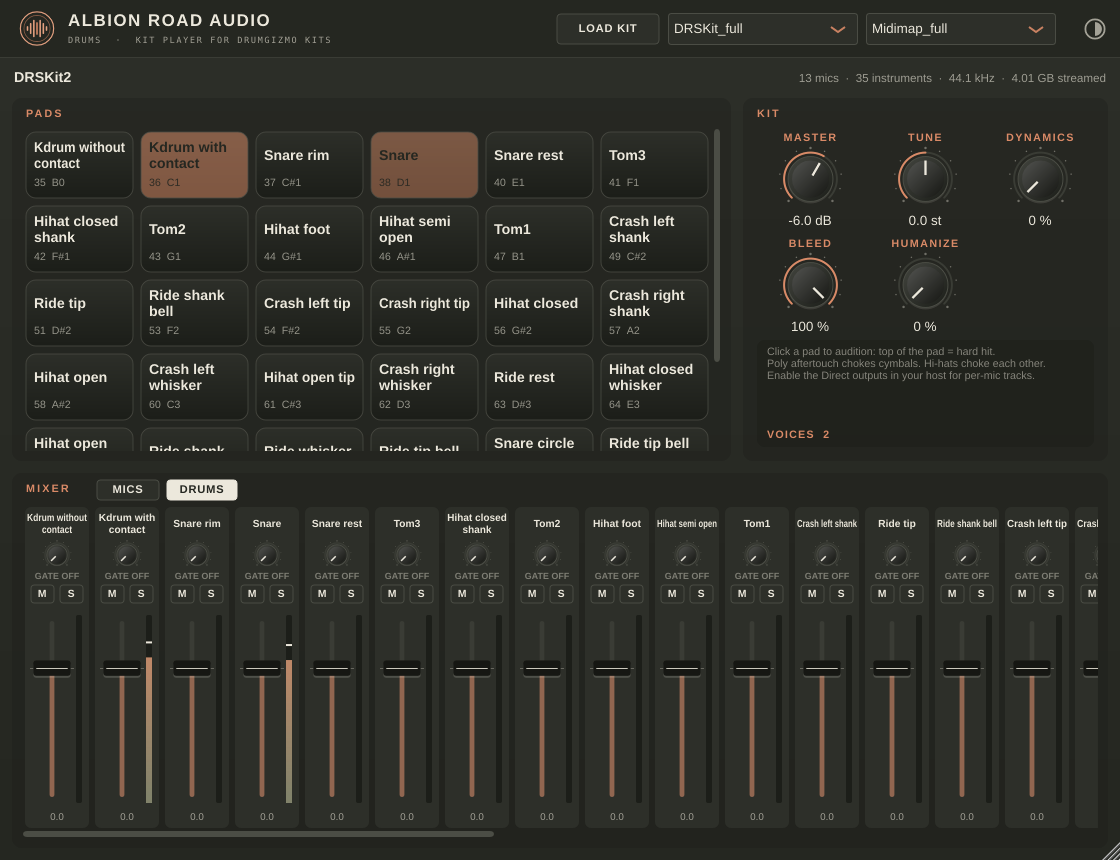
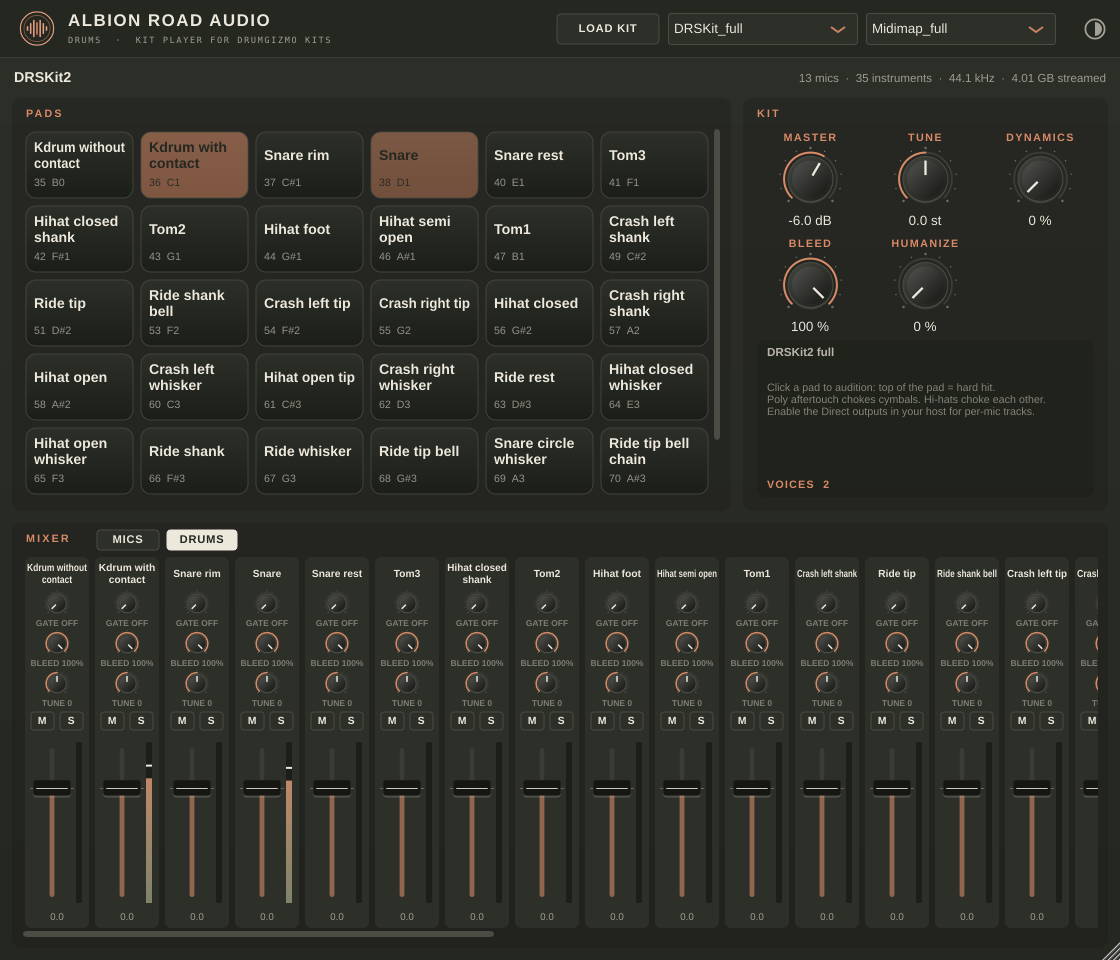
Drums 0.2.0: per-drum Bleed and Tune in the DRUMS mixer
Each drum strip now has Gate, Bleed and Tune knobs.
- Bleed (0-100 %) scales how much of that drum the other mics pick up,
  on top of the kit Bleed knob.
- Tune (+/-12 st) re-pitches just that drum, on top of the kit Tune knob.
  Pitch is now computed per voice.
- Default window is 1120x960 so the faders keep their length.
- tools/EngineTest.cpp checks both controls against a real kit.

diff --git a/juce/drums/src/KitViews.cpp b/juce/drums/src/KitViews.cpp
@@ -127,28 +127,39 @@ MixerStrip::MixerStrip (juce::ValueTree channelState, bool showPan, float uiScal
     if (hasPan)
         addAndMakeVisible (pan);
 
-    // per-hit gate (drum strips only): Off .. -3 dB below each hit's own peak
+    // drum strips only: per-hit gate, this drum's bleed and tune
     if (! hasPan)
     {
-        if (! state.hasProperty ("gate"))
-            state.setProperty ("gate", -60.0, nullptr);
-        gate.setSliderStyle (juce::Slider::RotaryHorizontalVerticalDrag);
-        gate.setRotaryParameters (juce::degreesToRadians (225.0f), juce::degreesToRadians (495.0f), true);
-        gate.setTextBoxStyle (juce::Slider::NoTextBox, true, 0, 0);
+        // Gate: Off .. -12 dB below each hit's own peak
         gate.setRange (-60.0, -12.0, 0.5);
         gate.setSkewFactorFromMidPoint (-30.0);
-        gate.setDoubleClickReturnValue (true, -60.0);
-        gate.getValueObject().referTo (state.getPropertyAsValue ("gate", nullptr));
+        setupDrumKnob (gate, "gate", -60.0);
         gate.textFromValueFunction = [] (double v)
         {
             return v <= -59.95 ? juce::String ("Off") : juce::String (v, v > -10.0 ? 1 : 0) + " dB";
         };
-        gate.setPopupDisplayEnabled (true, true, nullptr);
         gate.setTooltip ("Gate: cuts each hit once its level (RMS of the drum's main mics) has fallen this many dB "
                          "below that hit's own loudest point, then closes over 20 ms. Relative to each hit, not dBFS, "
                          "so soft and hard hits are shortened alike. Double-click for Off.");
         gate.onValueChange = [this] { repaint (gateText); };
-        addAndMakeVisible (gate);
+
+        // Bleed: this drum's level in the other drums' mics, x the kit Bleed knob
+        bleed.setRange (0.0, 100.0, 1.0);
+        setupDrumKnob (bleed, "bleed", 100.0);
+        bleed.textFromValueFunction = [] (double v) { return juce::String (juce::roundToInt (v)) + " %"; };
+        bleed.setTooltip ("Bleed: how much of this drum the other mics pick up (e.g. the snare in the overheads "
+                          "and kick mic). Multiplies the kit's BLEED knob. Double-click for 100 %.");
+        bleed.onValueChange = [this] { repaint (bleedText); };
+
+        // Tune: semitones on top of the kit Tune knob
+        tune.setRange (-12.0, 12.0, 0.1);
+        setupDrumKnob (tune, "tune", 0.0);
+        tune.textFromValueFunction = [] (double v)
+        {
+            return std::abs (v) < 0.05 ? juce::String ("0 st") : (v > 0 ? "+" : "") + juce::String (v, 1) + " st";
+        };
+        tune.setTooltip ("Tune: pitch of this drum in semitones, added to the kit's TUNE knob. Double-click for 0.");
+        tune.onValueChange = [this] { repaint (tuneText); };
     }
 
     for (auto* b : { &mute, &solo })
@@ -181,6 +192,26 @@ MixerStrip::MixerStrip (juce::ValueTree channelState, bool showPan, float uiScal
     fader.onValueChange();
 }
 
+void MixerStrip::setupDrumKnob (juce::Slider& s, const juce::Identifier& property, double defaultValue)
+{
+    if (! state.hasProperty (property))
+        state.setProperty (property, defaultValue, nullptr);
+    s.setSliderStyle (juce::Slider::RotaryHorizontalVerticalDrag);
+    s.setRotaryParameters (juce::degreesToRadians (225.0f), juce::degreesToRadians (495.0f), true);
+    s.setTextBoxStyle (juce::Slider::NoTextBox, true, 0, 0);
+    s.setDoubleClickReturnValue (true, defaultValue);
+    s.getValueObject().referTo (state.getPropertyAsValue (property, nullptr));
+    s.setPopupDisplayEnabled (true, true, nullptr);
+    addAndMakeVisible (s);
+}
+
+void MixerStrip::drawKnobText (juce::Graphics& g, juce::Rectangle<int> r, const juce::String& text, bool active)
+{
+    g.setColour (active ? colours::accent : colours::muted.withAlpha (0.7f));
+    g.setFont (font (9.5f * scale, true));
+    g.drawFittedText (text, r, juce::Justification::centred, 1, 0.8f);
+}
+
 void MixerStrip::setMeter (float peak) noexcept
 {
     // fast attack, ~300 ms visual release, short peak hold
@@ -203,12 +234,13 @@ void MixerStrip::paint (juce::Graphics& g)
 
     if (! hasPan)
     {
-        const bool on = gate.getValue() > -59.95;
-        g.setColour (on ? colours::accent : colours::muted.withAlpha (0.7f));
-        g.setFont (font (10.0f * scale, true));
-        g.drawText (on ? "GATE " + gate.getTextFromValue (gate.getValue()).upToFirstOccurrenceOf (" ", false, false)
-                       : juce::String ("GATE OFF"),
-                    gateText, juce::Justification::centred, false);
+        // highlighted when moved away from the default
+        const auto gv = gate.getValue(), bv = bleed.getValue(), tv = tune.getValue();
+        drawKnobText (g, gateText, gv > -59.95 ? "GATE " + gate.getTextFromValue (gv).upToFirstOccurrenceOf (" ", false, false)
+                                               : juce::String ("GATE OFF"), gv > -59.95);
+        drawKnobText (g, bleedText, "BLEED " + juce::String (juce::roundToInt (bv)) + "%", bv < 99.5);
+        drawKnobText (g, tuneText, "TUNE " + tune.getTextFromValue (tv).upToFirstOccurrenceOf (" ", false, false),
+                      std::abs (tv) >= 0.05);
     }
 
     // meter next to the fader: cream -> brass -> red, -48..+6 dB
@@ -240,8 +272,14 @@ void MixerStrip::resized()
         pan.setBounds (r.removeFromTop (juce::roundToInt (36 * scale)).reduced (juce::roundToInt (8 * scale), 0));
     else
     {
-        gate.setBounds (r.removeFromTop (juce::roundToInt (30 * scale)).reduced (juce::roundToInt (10 * scale), 0));
-        gateText = r.removeFromTop (juce::roundToInt (13 * scale));
+        auto knobRow = [&] (juce::Slider& s, juce::Rectangle<int>& text)
+        {
+            s.setBounds (r.removeFromTop (juce::roundToInt (27 * scale)).reduced (juce::roundToInt (12 * scale), 0));
+            text = r.removeFromTop (juce::roundToInt (13 * scale));
+        };
+        knobRow (gate, gateText);
+        knobRow (bleed, bleedText);
+        knobRow (tune, tuneText);
     }
     auto buttons = r.removeFromTop (juce::roundToInt (22 * scale));
     mute.setBounds (buttons.removeFromLeft (buttons.getWidth() / 2).reduced (2, 1));

diff --git a/juce/drums/tools/EngineTest.cpp b/juce/drums/tools/EngineTest.cpp
@@ -1,0 +1,101 @@
+// Dev tool: checks the per-drum Bleed and Tune controls (DRUMS mixer) against a real kit.
+//   AlbionDrumsEngineTest <drumkit.xml>
+// Each case uses a fresh processor so sample selection is identical, plays one
+// snare hit (note 38) and measures the stereo mix.
+#include "../src/PluginProcessor.h"
+#include <juce_gui_basics/juce_gui_basics.h>
+#include <thread>
+
+namespace juce::detail { bool dispatchNextMessageOnSystemQueue (bool returnIfNoPendingMessages); }
+
+static void pumpMessages (int ms)
+{
+    const auto end = juce::Time::getMillisecondCounter() + (juce::uint32) ms;
+    while (juce::Time::getMillisecondCounter() < end)
+    {
+        while (juce::detail::dispatchNextMessageOnSystemQueue (true)) {}
+        std::this_thread::sleep_for (std::chrono::milliseconds (5));
+    }
+}
+
+struct Result { double energy = 0; double decaySeconds = 0; };   // decay = last non-silent output sample
+
+// settings: (note whose drum gets the property, property, value)
+static Result run (const juce::File& kitFile, std::vector<std::tuple<int, juce::String, double>> settings)
+{
+    std::unique_ptr<juce::AudioProcessor> proc (createPluginFilter());
+    auto& drums = dynamic_cast<AlbionDrumsAudioProcessor&> (*proc);
+    constexpr double rate = 48000.0;
+    constexpr int block = 256;
+    proc->prepareToPlay (rate, block);
+    drums.loadKit (kitFile);
+    for (int i = 0; i < 600 && drums.getPublishedKit() == nullptr && drums.getLastError().isEmpty(); ++i)
+        pumpMessages (50);
+    const auto* kit = drums.getPublishedKit();
+    if (kit == nullptr)
+    {
+        std::printf ("kit failed to load: %s\n", drums.getLastError().toRawUTF8());
+        std::exit (2);
+    }
+    for (const auto& [note, prop, value] : settings)
+        for (auto inst : kit->noteToInstruments[(size_t) note])
+            drums.getInstrumentState (kit->instruments[(size_t) inst].name).setProperty (prop, value, nullptr);
+    pumpMessages (20);
+
+    juce::AudioBuffer<float> buf (proc->getTotalNumOutputChannels(), block);
+    Result r;
+    std::int64_t lastSound = 0, t = 0;
+    for (int b = 0; b < (int) (8.0 * rate) / block; ++b)
+    {
+        buf.clear();
+        juce::MidiBuffer midi;
+        if (b == 0)
+            midi.addEvent (juce::MidiMessage::noteOn (10, 38, (juce::uint8) 110), 0);
+        proc->processBlock (buf, midi);
+        double sum = 0;
+        for (int ch = 0; ch < 2; ++ch)
+            for (int k = 0; k < block; ++k)
+                sum += (double) buf.getSample (ch, k) * buf.getSample (ch, k);
+        r.energy += sum;
+        for (int k = 0; k < block; ++k, ++t)
+            if (std::abs (buf.getSample (0, k)) > 1.0e-6f || std::abs (buf.getSample (1, k)) > 1.0e-6f)
+                lastSound = t;
+    }
+    // the sample's end lands at length / playback speed, so this scales exactly with Tune
+    r.decaySeconds = (double) lastSound / rate;
+    proc->releaseResources();
+    return r;
+}
+
+int main (int argc, char** argv)
+{
+    if (argc < 2) { std::puts ("usage: AlbionDrumsEngineTest <drumkit.xml>"); return 1; }
+    juce::ScopedJuceInitialiser_GUI gui;
+    const juce::File kit { juce::String (argv[1]) };
+    int failures = 0;
+    auto check = [&] (bool ok, const char* what) { std::printf ("%s  %s\n", ok ? "PASS" : "FAIL", what); failures += ok ? 0 : 1; };
+    auto db = [] (double ratio) { return 10.0 * std::log10 (juce::jmax (1.0e-12, ratio)); };
+
+    const auto base      = run (kit, {});
+    const auto noBleed   = run (kit, { { 38, "bleed", 0.0 } });
+    const auto halfBleed = run (kit, { { 38, "bleed", 50.0 } });
+    const auto kickBleed = run (kit, { { 36, "bleed", 0.0 } });
+    const auto up12      = run (kit, { { 38, "tune", 12.0 } });
+    const auto down5     = run (kit, { { 38, "tune", -5.0 } });
+    const auto kickTune  = run (kit, { { 36, "tune", 12.0 } });
+
+    std::printf ("snare energy: default %.3f, bleed 0%% %+.1f dB, bleed 50%% %+.1f dB, kick bleed 0%% %+.2f dB\n",
+                 base.energy, db (noBleed.energy / base.energy), db (halfBleed.energy / base.energy),
+                 db (kickBleed.energy / base.energy));
+    std::printf ("snare decay: default %.2f s, tune +12 %.2f s, tune -5 %.2f s, kick tune +12 %.2f s\n",
+                 base.decaySeconds, up12.decaySeconds, down5.decaySeconds, kickTune.decaySeconds);
+
+    check (base.energy > 0.0, "snare hit produces sound");
+    check (noBleed.energy < base.energy * 0.9 && noBleed.energy > 0.0, "snare Bleed 0% removes its bleed mics but keeps the close mic");
+    check (halfBleed.energy < base.energy && halfBleed.energy > noBleed.energy, "snare Bleed 50% sits between 0% and 100%");
+    check (std::abs (kickBleed.energy - base.energy) < base.energy * 1.0e-6, "kick Bleed doesn't affect the snare");
+    check (std::abs (up12.decaySeconds / base.decaySeconds - 0.5) < 0.02, "snare Tune +12 st plays twice as fast");
+    check (std::abs (down5.decaySeconds / base.decaySeconds - std::exp2 (5.0 / 12.0)) < 0.02, "snare Tune -5 st plays 1.33x slower");
+    check (std::abs (kickTune.energy - base.energy) < base.energy * 1.0e-6, "kick Tune doesn't affect the snare");
+    return failures == 0 ? 0 : 1;
+}

diff --git a/juce/drums/src/PluginEditor.cpp b/juce/drums/src/PluginEditor.cpp
@@ -6,10 +6,10 @@ using namespace albion;
 namespace
 {
     constexpr int baseWidth  = 1120;
-    constexpr int baseHeight = 860;
+    constexpr int baseHeight = 960;
     constexpr int headerH    = 58;
     constexpr int infoH      = 40;
-    constexpr int mixerH     = 380;   // tall faders
+    constexpr int mixerH     = 460;   // tall faders, plus Gate / Bleed / Tune on drum strips
     constexpr int stripW     = 74;
     constexpr int drumStripW = 70;
 
@@ -69,7 +69,8 @@ AlbionDrumsAudioProcessorEditor::AlbionDrumsAudioProcessorEditor (AlbionDrumsAud
     micsTab.onClick  = [this] { setMixerView (false); };
     drumsTab.onClick = [this] { setMixerView (true); };
     micsTab.setTooltip ("Mixer per microphone channel (pan, level, mute, solo)");
-    drumsTab.setTooltip ("Mixer per drum: each fader sets that drum's level in every mic, bleed included");
+    drumsTab.setTooltip ("Mixer per drum: gate, bleed and tune for each drum, and a fader that sets "
+                         "its level in every mic, bleed included");
     showDrums = (bool) drums.getUiState().getProperty ("drumsView", false);
 
     mixerView.setViewedComponent (&mixerContent, false);
@@ -81,7 +82,10 @@ AlbionDrumsAudioProcessorEditor::AlbionDrumsAudioProcessorEditor (AlbionDrumsAud
     setupKnob (knobs[kDynamics], ids::dynamics, "DYNAMICS");
     setupKnob (knobs[kBleed],    ids::bleed,    "BLEED");
     setupKnob (knobs[kHumanize], ids::humanize, "HUMANIZE");
-    knobs[kBleed].slider.setTooltip ("Level of mic bleed (non-main channels) for each drum");
+    knobs[kBleed].slider.setTooltip ("Master mic bleed (non-main channels) for the whole kit; "
+                                     "each drum's BLEED knob in the DRUMS mixer scales it further");
+    knobs[kTune].slider.setTooltip ("Pitch of the whole kit in semitones; each drum's TUNE knob "
+                                    "in the DRUMS mixer adds to it");
 
     drums.addChangeListener (this);
 

diff --git a/juce/drums/src/DrumEngine.cpp b/juce/drums/src/DrumEngine.cpp
@@ -368,14 +368,20 @@ void DrumEngine::render (float* const* channels, int n) noexcept
     jassert (n <= (int) envelope.size());
     n = juce::jmin (n, (int) envelope.size());
 
-    const auto step     = kit->sampleRate / hostRate * std::exp2 ((double) tuneSemitones / 12.0);
-    const auto integral = std::abs (step - 1.0) < 1.0e-12;
-    const auto numCh    = kit->numChannels();
+    const auto rateRatio = kit->sampleRate / hostRate;
+    const auto numCh     = kit->numChannels();
 
     for (auto& v : voices)
     {
         if (! v.active)
             continue;
+
+        // pitch = kit Tune + this drum's Tune (DRUMS mixer)
+        const auto drumTune  = kit->instrumentTune[(size_t) v.instrument]->load (std::memory_order_relaxed);
+        const auto semis     = juce::jlimit (-24.0f, 24.0f, tuneSemitones + drumTune);
+        const auto step      = rateRatio * std::exp2 ((double) semis / 12.0);
+        const auto integral  = std::abs (step - 1.0) < 1.0e-12;
+        const auto drumBleed = bleed * kit->instrumentBleed[(size_t) v.instrument]->load (std::memory_order_relaxed);
 
         // Envelope = choke ramp x DRUMS-fader ramp. When neither is moving we
         // skip the envelope entirely and fold the fader into a scalar gain.
@@ -422,7 +428,7 @@ void DrumEngine::render (float* const* channels, int n) noexcept
         {
             if (s.kitChannel < 0 || s.kitChannel >= numCh)
                 continue;
-            const auto g = voiceGain * (s.main ? 1.0f : bleed);
+            const auto g = voiceGain * (s.main ? 1.0f : drumBleed);
             if (g <= 0.0f)
                 continue;
 

diff --git a/juce/drums/src/PluginProcessor.cpp b/juce/drums/src/PluginProcessor.cpp
@@ -493,6 +493,8 @@ juce::ValueTree AlbionDrumsAudioProcessor::getInstrumentState (const juce::Strin
         in.setProperty (muteProp, false, nullptr);
         in.setProperty (soloProp, false, nullptr);
         in.setProperty ("gate", -60.0, nullptr);   // -60 = off
+        in.setProperty ("bleed", 100.0, nullptr);  // % of the kit Bleed
+        in.setProperty ("tune", 0.0, nullptr);     // semitones on top of the kit Tune
         drumsTree.appendChild (in, nullptr);
     }
     return in;
@@ -519,6 +521,10 @@ void AlbionDrumsAudioProcessor::updateInstrumentGains()
 
         const auto gateDb = (float) in.getProperty ("gate", -60.0);
         publishedKit->instrumentGate[i]->store (gateDb <= -59.95f ? 0.0f : juce::Decibels::decibelsToGain (gateDb),
+                                                std::memory_order_relaxed);
+        publishedKit->instrumentBleed[i]->store (juce::jlimit (0.0f, 1.0f, (float) in.getProperty ("bleed", 100.0) * 0.01f),
+                                                 std::memory_order_relaxed);
+        publishedKit->instrumentTune[i]->store (juce::jlimit (-12.0f, 12.0f, (float) in.getProperty ("tune", 0.0)),
                                                 std::memory_order_relaxed);
     }
 }

diff --git a/juce/drums/src/KitViews.h b/juce/drums/src/KitViews.h
@@ -40,7 +40,8 @@ public:
 };
 
 // One mixer strip bound to a mixer ValueTree node: a mic channel (with pan)
-// or a drum instrument (no pan; its fader scales every mic of that drum).
+// or a drum instrument (no pan; its fader scales every mic of that drum, and
+// it has Gate, Bleed and Tune knobs for that drum).
 class MixerStrip final : public juce::Component
 {
 public:
@@ -55,8 +56,11 @@ private:
     juce::String title;
     bool hasPan = true;
     juce::Label readout;
-    juce::Slider pan, gate, fader;
-    juce::Rectangle<int> gateText;
+    juce::Slider pan, gate, bleed, tune, fader;
+    juce::Rectangle<int> gateText, bleedText, tuneText;
+
+    void setupDrumKnob (juce::Slider&, const juce::Identifier& property, double defaultValue);
+    void drawKnobText (juce::Graphics&, juce::Rectangle<int>, const juce::String& text, bool active);
     juce::TextButton mute { "M" }, solo { "S" };
     float meterLevel = 0.0f, meterHold = 0.0f;
     float scale = 1.0f;

diff --git a/juce/drums/src/Kit.h b/juce/drums/src/Kit.h
@@ -76,6 +76,8 @@ struct Kit
     std::vector<std::unique_ptr<std::atomic<float>>> hit;      // per instrument, last velocity
     std::vector<std::unique_ptr<std::atomic<float>>> instrumentGain;   // DRUMS mixer (message -> audio)
     std::vector<std::unique_ptr<std::atomic<float>>> instrumentGate;   // gate threshold vs. hit peak, 0 = off
+    std::vector<std::unique_ptr<std::atomic<float>>> instrumentBleed;  // 0..1, x the kit Bleed, on this drum's bleed mics
+    std::vector<std::unique_ptr<std::atomic<float>>> instrumentTune;   // semitones, added to the kit Tune
     std::vector<std::unique_ptr<std::atomic<float>>> instrumentMeter;  // hit level after gain (audio -> UI)
 
     int numChannels() const noexcept { return (int) channelNames.size(); }

diff --git a/juce/drums/src/Kit.cpp b/juce/drums/src/Kit.cpp
@@ -329,6 +329,8 @@ std::unique_ptr<Kit> KitLoader::load (const juce::File& kitFile, juce::File midi
         kit->hit.push_back (std::make_unique<std::atomic<float>> (0.0f));
         kit->instrumentGain.push_back (std::make_unique<std::atomic<float>> (1.0f));
         kit->instrumentGate.push_back (std::make_unique<std::atomic<float>> (0.0f));
+        kit->instrumentBleed.push_back (std::make_unique<std::atomic<float>> (1.0f));
+        kit->instrumentTune.push_back (std::make_unique<std::atomic<float>> (0.0f));
         kit->instrumentMeter.push_back (std::make_unique<std::atomic<float>> (0.0f));
     }
 

diff --git a/juce/drums/src/DrumEngine.h b/juce/drums/src/DrumEngine.h
@@ -69,5 +69,6 @@ private:
     std::array<float, 4096> envelope {};
     std::array<std::int32_t, 4096> interpRel {};
     std::array<float, 4096> interpFrac {};
-    std::array<float, 4096 * 5 + 8> decodeScratch {};   // up to ~4.4x read speed (96k kit, +12 st)
+    std::array<float, 4096 * 5 + 8> decodeScratch {};   // up to ~4.4x read speed (96k kit, +12 st); faster reads
+                                                         // (kit + drum tune above that) use the uncached path
 };

diff --git a/juce/drums/README.md b/juce/drums/README.md
@@ -17,15 +17,20 @@ without long loads.
 3. **Pads**: one per mapped note. Click to audition (top of a pad = hard hit). Pads flash on MIDI hits.
 4. **Kit** knobs:
    - **Master**: defaults to -6 dB, because kits sum many mics.
-   - **Tune**: ±12 semitones.
+   - **Tune**: ±12 semitones for the whole kit (each drum's own **TUNE** adds to it).
    - **Dynamics**: extra velocity → level.
-   - **Bleed**: level of non-main mics, for kits that mark main channels.
+   - **Bleed**: master level of non-main mics, for kits that mark main channels (each drum's own
+     **BLEED** scales it further).
    - **Humanize**: DrumGizmo's humanizer. 0 = off, 100% = DrumGizmo's defaults.
 5. **Mixer**:
    - **MICS**: level, pan, mute and solo per microphone. Stereo pairs (`OHL/OHR`, `Room-L/Room-R`, …)
      are panned hard left/right automatically.
-   - **DRUMS**: a fader, mute, solo and **GATE** knob per instrument. A drum's fader scales that drum
-     in *every* mic, bleed included, so the room stays coherent.
+   - **DRUMS**: per instrument, a fader, mute, solo and **GATE**, **BLEED** and **TUNE** knobs.
+     A drum's fader scales that drum in *every* mic, bleed included, so the room stays coherent.
+     **BLEED** (0–100 %, default 100 %) sets how much of that drum the *other* mics pick up, e.g. the
+     snare in the overheads and kick mic, on top of the kit Bleed knob. Some kits' bleed mics are partly
+     out of phase with the close mic, so turning bleed down can thin a drum as well as dry it up.
+     **TUNE** (±12 semitones, default 0) re-pitches just that drum, on top of the kit Tune knob.
      **GATE** cuts each hit once its level has fallen the set number of dB below that hit's own loudest point.
      - The level is RMS of the drum's main mics (10 ms attack, 60 ms release), so the reference is the body
        of the drum, not its transient click.
@@ -83,7 +88,8 @@ cmake --build build --target AlbionDrums_CLAP AlbionDrums_VST3 AlbionDrums_Stand
 ```
 
 Dev tool: `-DALBION_BUILD_TOOLS=ON` builds `AlbionDrumsSnapshot <drumkit.xml> <out.png> [w h [drums]]`,
-which renders the UI offscreen with a kit loaded.
+which renders the UI offscreen with a kit loaded, and `AlbionDrumsEngineTest <drumkit.xml>`, which checks
+the per-drum Bleed and Tune against a real kit (e.g. DRSKit_full).
 
 ## IDs (don't change after release)
 
